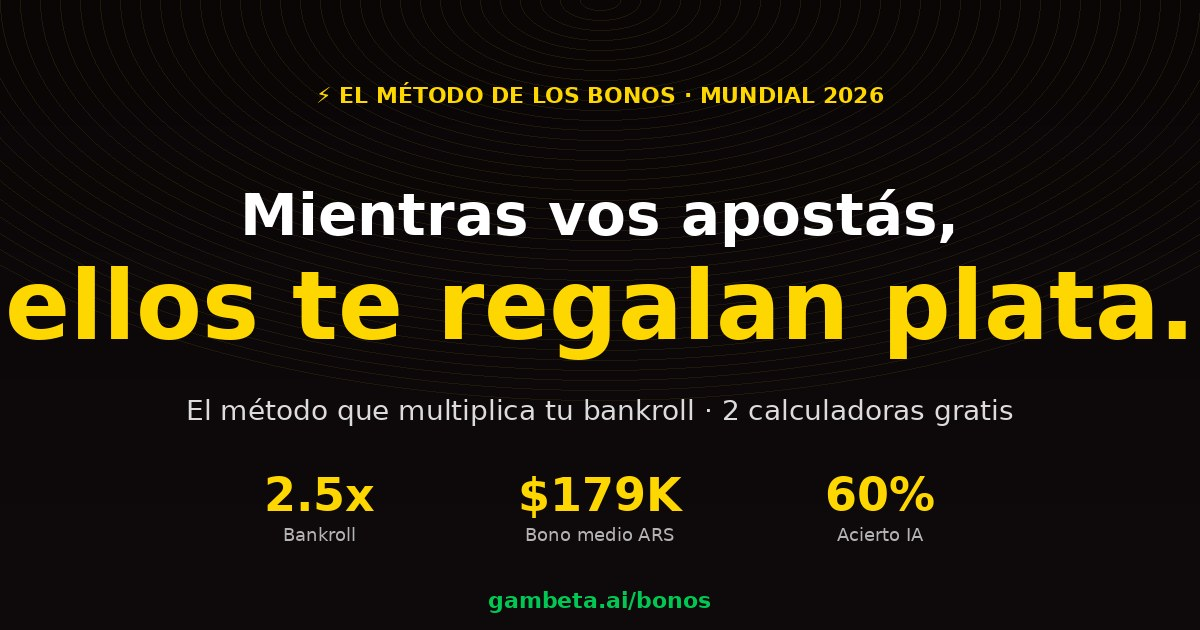
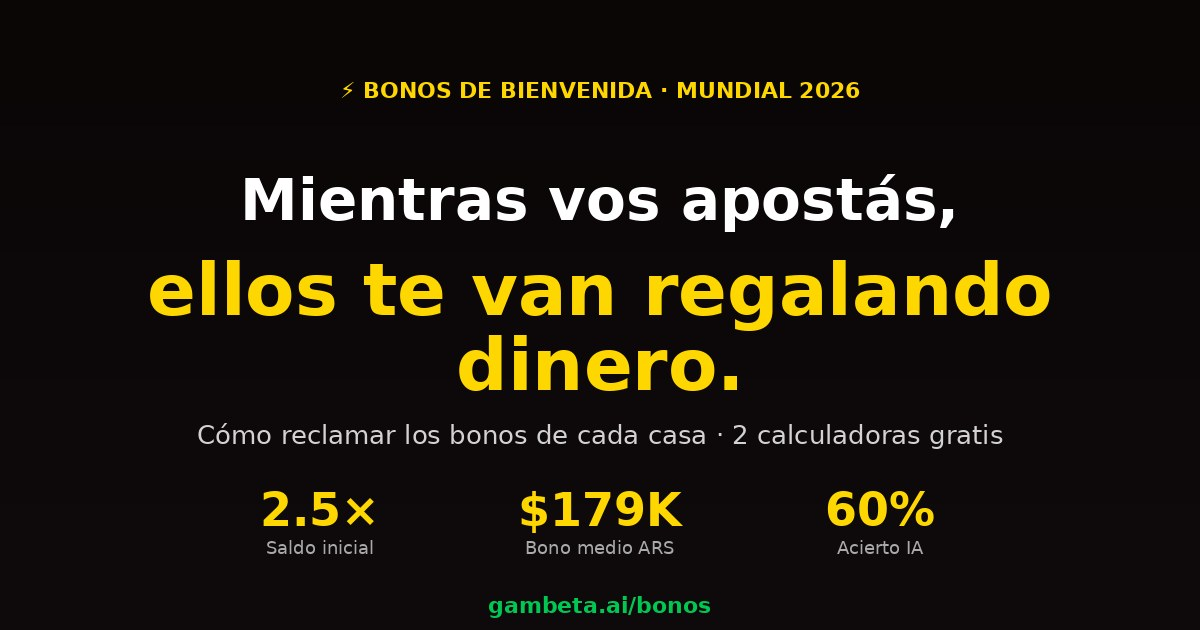
edit(bonos/blog): sacar 'método' y 'bankroll' del copy
Mauro: no hables de método (suena técnico), no hables de bankroll
(jerga). El título tiene que ser 'Mientras vos apostás, ellos te van
regalando dinero.'

CAMBIOS:
- bonos.html
  · Title: 'El método de los bonos...' → 'Mientras vos apostás, ellos te van regalando dinero'
  · H1: 'ellos te regalan plata' → 'ellos te van regalando dinero'
  · Badge: 'Método de los Bonos' → 'Bonos de Bienvenida'
  · Kicker: 'El método' → 'Cómo funciona'
  · Stat label: 'Bankroll inicial' → 'Saldo inicial'
  · Subtítulo del hero: quitar 'secreto que los pros usan'
  · Meta + schema actualizados

- blog DBbet
  · Box cross-link: 'método completo' → 'cómo funciona'
  · 'Ver el método →' → 'Ver cómo funciona →'
  · 'duplica el bankroll' → 'duplica el saldo'

- OG image regenerada con título nuevo (2.5x / $179K / 60% stats)

diff --git a/bonos.html b/bonos.html
@@ -3,28 +3,28 @@
 <head>
 <meta charset="utf-8"/>
 <meta content="width=device-width, initial-scale=1.0" name="viewport"/>
-<title>💰 El método de los bonos: cómo los profesionales ganan dinero gratis del Mundial 2026</title>
-<meta content="Los apostadores serios reclaman los bonos de bienvenida de cada casa donde abren cuenta. Te enseñamos el método paso a paso + calculadoras para ver cuánto dejás de ganar." name="description"/>
+<title>💰 Mientras vos apostás, ellos te van regalando dinero · Bonos Mundial 2026</title>
+<meta content="Mientras vos apostás, las casas te van regalando dinero gratis a través del bono de bienvenida. Te enseñamos a reclamarlos paso a paso + calculadoras interactivas." name="description"/>
 <meta content="gambeta.ai" name="author"/>
 <meta content="index, follow" name="robots"/>
 <link href="https://gambeta.ai/bonos" rel="canonical"/>
 <meta content="article" property="og:type"/>
 <meta content="https://gambeta.ai/bonos" property="og:url"/>
-<meta content="💰 El método de los bonos del Mundial 2026" property="og:title"/>
-<meta content="Cómo los profesionales reclaman dinero gratis con los bonos de bienvenida. Guía + calculadoras." property="og:description"/>
+<meta content="💰 Mientras vos apostás, ellos te van regalando dinero" property="og:title"/>
+<meta content="Cómo los apostadores serios reclaman dinero gratis del bono de bienvenida en cada casa. Guía + calculadoras." property="og:description"/>
 <meta content="https://gambeta.ai/og/bonos-hero.jpg" property="og:image"/>
 <meta content="es_AR" property="og:locale"/>
 <meta content="gambeta.ai" property="og:site_name"/>
 <meta content="summary_large_image" name="twitter:card"/>
 <meta content="@gambetaia" name="twitter:site"/>
-<meta content="💰 El método de los bonos del Mundial 2026" name="twitter:title"/>
+<meta content="💰 Mientras vos apostás, ellos te van regalando dinero" name="twitter:title"/>
 <meta content="Guía + calculadoras: cuánto dinero gratis dejás de ganar." name="twitter:description"/>
 <script type="application/ld+json">
 {
   "@context": "https://schema.org",
   "@type": "Article",
-  "headline": "El método de los bonos: cómo los profesionales ganan dinero gratis del Mundial 2026",
-  "description": "Guía honesta + calculadoras interactivas: por qué reclamar los bonos de cada casa multiplica tu bankroll.",
+  "headline": "Mientras vos apostás, ellos te van regalando dinero · Bonos Mundial 2026",
+  "description": "Guía honesta + calculadoras interactivas: por qué reclamar los bonos de cada casa te suma dinero extra.",
   "url": "https://gambeta.ai/bonos",
   "datePublished": "2026-06-24T12:00:00-03:00",
   "dateModified": "2026-06-24T12:00:00-03:00",
@@ -181,11 +181,11 @@ footer{border-top:1px solid var(--borde);padding:34px 24px;text-align:center;col
 
 <!-- HERO -->
 <header class="hero">
-  <div class="hero-badge">💰 Método de los Bonos · Mundial 2026</div>
-  <h1>Mientras vos apostás,<br><span class="gold">ellos te regalan plata.</span></h1>
-  <p class="lead">El secreto que los apostadores serios usan hace años: <strong>reclamar el bono de bienvenida en cada casa donde abren cuenta</strong>. No es trampa, no es truco. Es plata que el mercado deja sobre la mesa esperando que la pidas.</p>
+  <div class="hero-badge">💰 Bonos de Bienvenida · Mundial 2026</div>
+  <h1>Mientras vos apostás,<br><span class="gold">ellos te van regalando dinero.</span></h1>
+  <p class="lead">Algo simple que los apostadores serios hacen hace años: <strong>reclamar el bono de bienvenida en cada casa donde abren cuenta</strong>. No es trampa, no es truco. Es dinero que las casas dejan sobre la mesa esperando que lo pidas.</p>
   <div class="hero-stats">
-    <div class="hero-stat"><span class="num">2.5×</span><span class="lbl">Bankroll inicial</span></div>
+    <div class="hero-stat"><span class="num">2.5×</span><span class="lbl">Saldo inicial</span></div>
     <div class="hero-stat"><span class="num">$179K</span><span class="lbl">Bono medio (ARS)</span></div>
     <div class="hero-stat"><span class="num">60%</span><span class="lbl">Acierto IA confianza alta</span></div>
   </div>
@@ -199,8 +199,8 @@ footer{border-top:1px solid var(--borde);padding:34px 24px;text-align:center;col
 
 <!-- POR QUÉ -->
 <section class="section">
-  <span class="kicker">El método</span>
-  <h2>Por qué <span class="gold">tener cuenta en varias casas</span> es lo que hacen los pros</h2>
+  <span class="kicker">Cómo funciona</span>
+  <h2>Por qué <span class="gold">tener cuenta en varias casas</span> te conviene</h2>
   <p>Las casas de apuestas compiten ferozmente por clientes nuevos. ¿Su arma? <strong>El bono de bienvenida</strong>. Te dan dinero gratis solo por registrarte y depositar la primera vez. Casi todas operan así.</p>
   <p>El apostador casual usa <em>una sola casa</em> y reclama un bono. El apostador serio entiende que <strong>cada nueva cuenta = un bono nuevo</strong>, y que además, tener varias casas le da otra ventaja: <strong>comparar cuotas</strong> antes de cada apuesta y elegir la que más paga.</p>
 

diff --git a/blog/dbbet-bono-100-freebet-argentina-mundial-2026.html b/blog/dbbet-bono-100-freebet-argentina-mundial-2026.html
@@ -225,9 +225,9 @@ footer{border-top:1px solid var(--borde);padding:30px 24px;text-align:center;col
 <div style="background:linear-gradient(135deg,rgba(255,215,0,0.06),rgba(255,255,255,0.02));border:1px solid rgba(255,215,0,0.30);border-radius:12px;padding:18px 22px;margin:22px 0;display:flex;align-items:center;gap:16px;flex-wrap:wrap">
   <div style="flex:1;min-width:220px">
     <div style="font-size:.7rem;color:#FFD700;font-weight:900;letter-spacing:1.5px;text-transform:uppercase;margin-bottom:4px">💰 ¿Por qué un bono?</div>
-    <div style="font-size:.94rem;color:rgba(255,255,255,0.85);line-height:1.5">Antes de meterte en los detalles, mirá <strong>el método completo</strong>: por qué los pros reclaman los bonos de todas las casas y cómo multiplicarías tu bankroll.</div>
+    <div style="font-size:.94rem;color:rgba(255,255,255,0.85);line-height:1.5">Antes de meterte en los detalles, mirá <strong>cómo funciona</strong>: por qué los apostadores serios reclaman los bonos de todas las casas y cuánto dinero extra te sumarías.</div>
   </div>
-  <a href="/bonos" style="display:inline-block;background:rgba(255,215,0,0.12);border:1px solid rgba(255,215,0,0.45);color:#FFD700!important;font-weight:700;font-size:.84rem;padding:10px 18px;border-radius:100px;text-decoration:none!important;white-space:nowrap;transition:background .15s,transform .15s" onmouseover="this.style.background='rgba(255,215,0,0.20)';this.style.transform='translateY(-1px)'" onmouseout="this.style.background='rgba(255,215,0,0.12)';this.style.transform='translateY(0)'">Ver el método →</a>
+  <a href="/bonos" style="display:inline-block;background:rgba(255,215,0,0.12);border:1px solid rgba(255,215,0,0.45);color:#FFD700!important;font-weight:700;font-size:.84rem;padding:10px 18px;border-radius:100px;text-decoration:none!important;white-space:nowrap;transition:background .15s,transform .15s" onmouseover="this.style.background='rgba(255,215,0,0.20)';this.style.transform='translateY(-1px)'" onmouseout="this.style.background='rgba(255,215,0,0.12)';this.style.transform='translateY(0)'">Ver cómo funciona →</a>
 </div>
 
 <div class="cta-inline">
@@ -356,7 +356,7 @@ Total para jugar:            <span class="verde">~$460.000 ARS</span><br>
 <p>Mirá <a href="https://gambeta.ai/#predicciones">los picks de hoy en la grilla</a>, filtrá los de máxima confianza y armá una combinada de cuota total ≥ 5.00 con 3 o 4 picks. Si gana, destrabás el bono. Si pierde, ya cumpliste el rollover (3 eventos a 1.40+) en una sola apuesta.</p>
 
 <h2>📌 Conclusión: ¿conviene?</h2>
-<p><strong>Sí, si vas a apostar el Mundial igualmente.</strong> El combo de las 2 promos te duplica el bankroll inicial (hasta $358K ARS para jugar con depósito de $179K). La FreeBet por sí sola ya es valor positivo garantizado (riesgo 0, upside positivo).</p>
+<p><strong>Sí, si vas a apostar el Mundial igualmente.</strong> El combo de las 2 promos te duplica el saldo inicial (hasta $358K ARS para jugar con depósito de $179K). La FreeBet por sí sola ya es valor positivo garantizado (riesgo 0, upside positivo).</p>
 <p>El rollover del bono <strong>es de los más amigables del mercado</strong>: 3 eventos a 1.40 o, mejor, una sola combinada x5 con 3 picks. Si usás los picks de máxima confianza de la IA, tenés una base mucho más sólida que apostar al azar.</p>
 <p><strong>No te conviene</strong> si vas a apostar sin estrategia: una combinada x5 al azar tiene baja chance de cerrar. Por eso el combo "promo + picks IA" es el camino más limpio.</p>
 